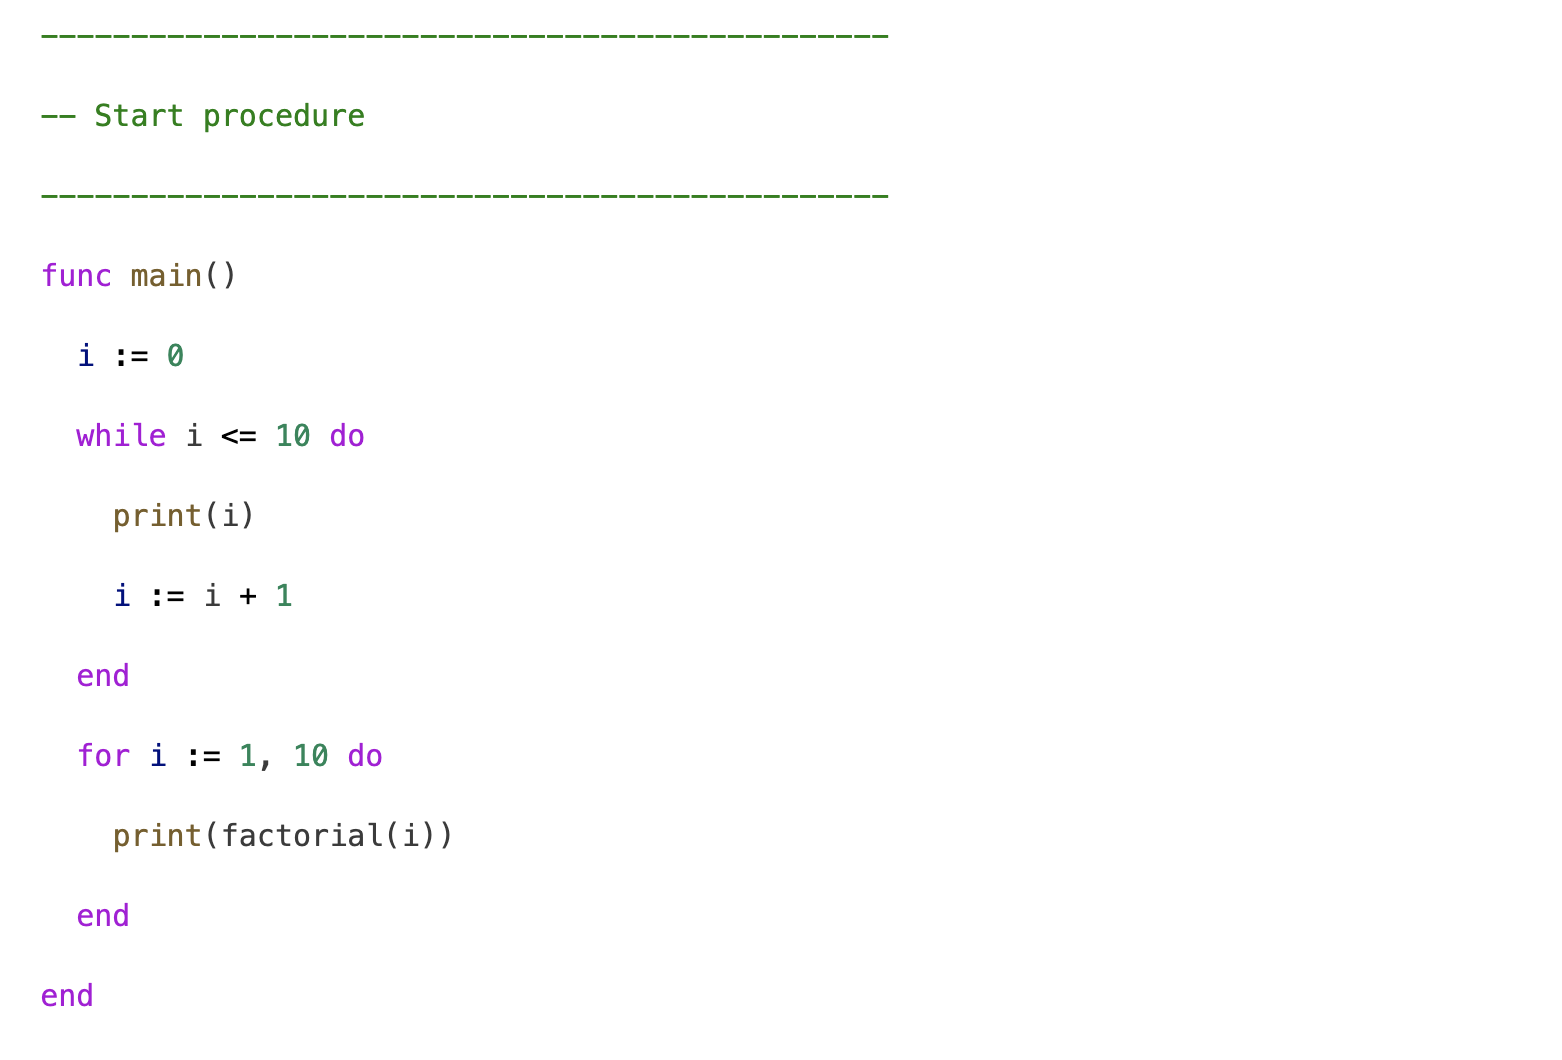
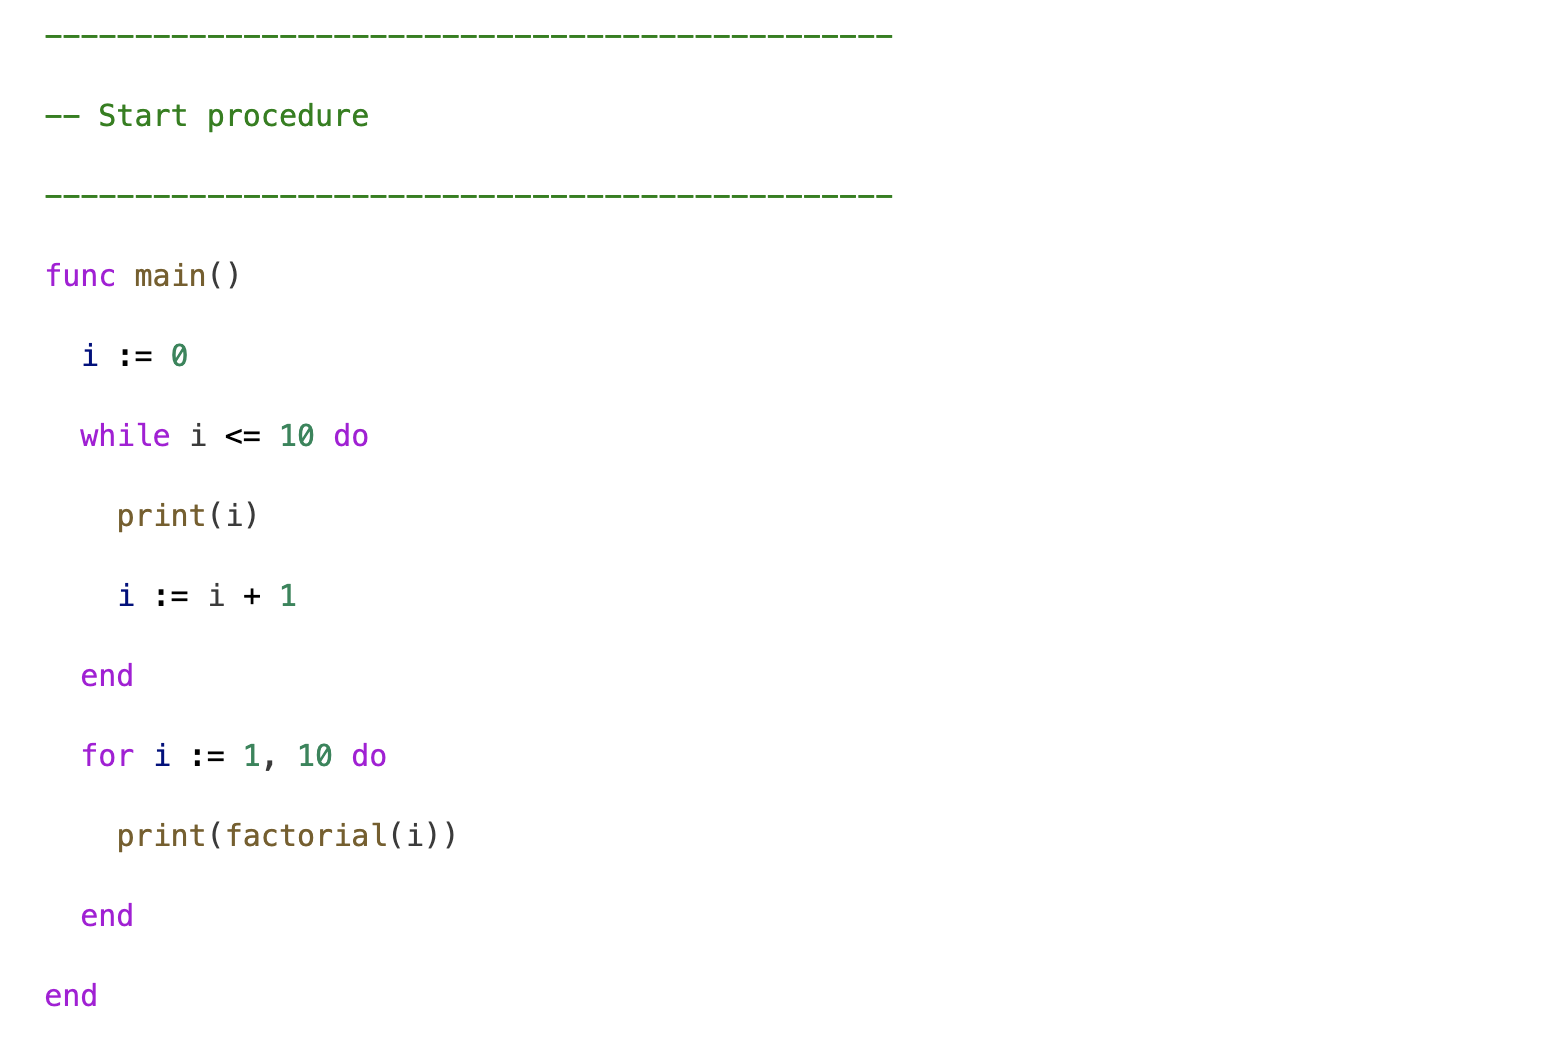
update screenshots

diff --git a/CHANGELOG.md b/CHANGELOG.md
@@ -4,6 +4,10 @@ All notable changes to the "vscode-pinky" extension will be documented in this f
 
 Check [Keep a Changelog](http://keepachangelog.com/) for recommendations on how to structure this file.
 
+## [1.0.3] - 2025-06-14
+
+- Update screenshots with function calls
+
 ## [1.0.2] - 2025-06-14
 
 - Add function calls
